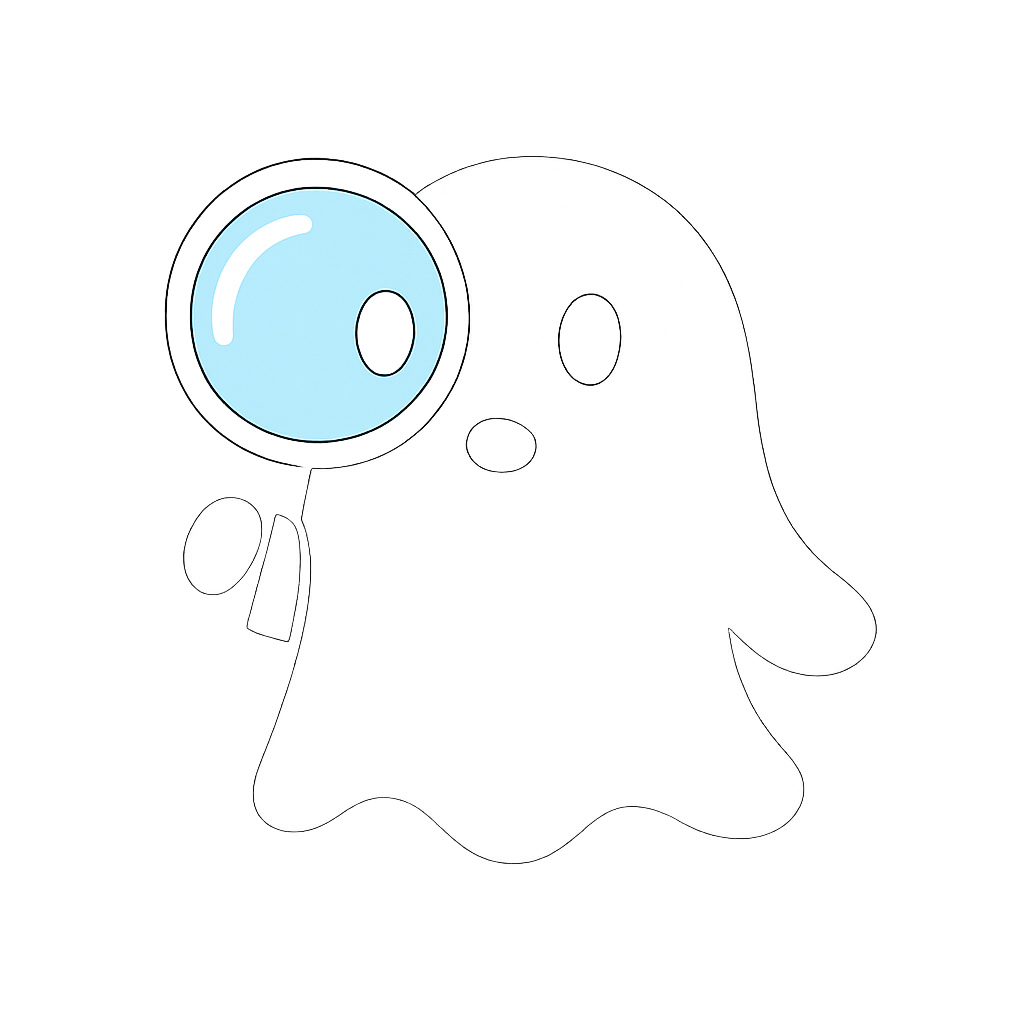
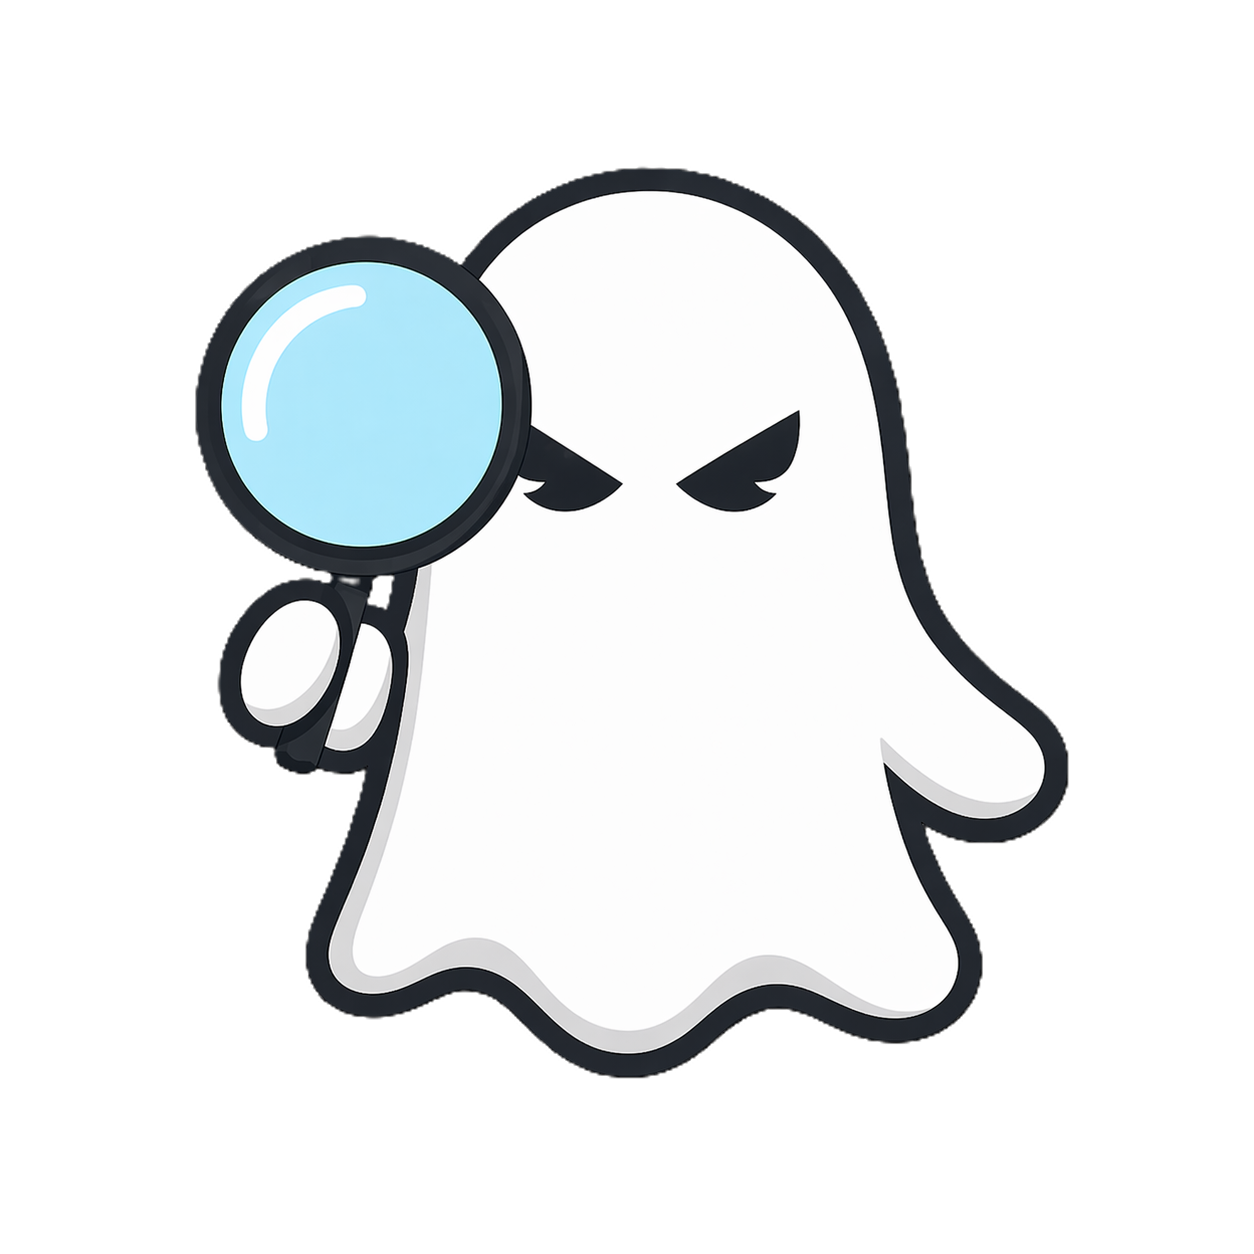
UI + backend: Post-Incident Review title trims (DNS Tunneling; Archived Data Exfiltration); MTTR YAxis responsive width+fontSize below sm (no clip on 1m 30s); ghost-searching -> inline magnifying-glass SVG on all 3 no-match empty states (logs, reports, alerts); ghost asset refresh (celebrate, search

Changed region(s): [[0.1562, 0.125, 0.875, 0.875], [0.5312, 0.3125, 0.6562, 0.4062]]

diff --git a/frontend/src/components/PerformanceGrade.jsx b/frontend/src/components/PerformanceGrade.jsx
@@ -1,4 +1,4 @@
-import React, { useState } from "react";
+import React, { useState, useEffect } from "react";
 import {
   PieChart,
   Pie,
@@ -57,6 +57,14 @@ const GRADE_MESSAGES = {
 
 const PerformanceGrade = ({ report }) => {
   const [resultsView, setResultsView] = useState('grade');
+  const [isSmUp, setIsSmUp] = useState(() => typeof window !== 'undefined' && window.matchMedia('(min-width: 640px)').matches);
+
+  useEffect(() => {
+    const mql = window.matchMedia('(min-width: 640px)');
+    const onChange = (e) => setIsSmUp(e.matches);
+    mql.addEventListener('change', onChange);
+    return () => mql.removeEventListener('change', onChange);
+  }, []);
 
   const hasData = report && report.total_actions > 0;
   const correct = hasData ? (report.threats_caught + report.fp_identified) : 0;
@@ -171,7 +179,7 @@ const PerformanceGrade = ({ report }) => {
               <LineChart data={mttrData} margin={{ top: 10, right: 20, left: 0, bottom: 0 }}>
                 <CartesianGrid strokeDasharray="3 3" stroke="#30363d" />
                 <XAxis dataKey="index" stroke="#9ca3af" tick={{ fill: '#9ca3af', fontSize: 14 }} tickFormatter={(v) => v === 0 ? '' : v} />
-                <YAxis stroke="#9ca3af" tick={{ fill: '#9ca3af', fontSize: 14 }} tickFormatter={(v) => formatDuration(v)} width={68} />
+                <YAxis stroke="#9ca3af" tick={{ fill: '#9ca3af', fontSize: isSmUp ? 14 : 12 }} tickFormatter={(v) => formatDuration(v)} width={isSmUp ? 64 : 68} />
                 <Tooltip content={<MttrTooltip />} wrapperStyle={{ zIndex: 20, outline: 'none', border: 'none' }} />
                 {avgMttr > 0 && (
                   <ReferenceLine y={avgMttr} stroke="#5882b4" strokeDasharray="4 4" />

diff --git a/frontend/src/components/GroupedAlerts.jsx b/frontend/src/components/GroupedAlerts.jsx
@@ -523,7 +523,15 @@ const GroupedAlerts = ({ resetTrigger, onHardcoreFailure, onReset, isVisible, se
 
               if (noResults) return (
                 <div className="flex flex-col items-center justify-center py-12">
-                  <img src="/ghost-searching.png" alt="Ghost Searching" className="w-20 h-20 sm:w-28 sm:h-28 opacity-90 mb-3" />
+                  <svg
+                    className="w-12 h-12 sm:w-16 sm:h-16 text-gray-500 mb-3"
+                    fill="none"
+                    stroke="currentColor"
+                    viewBox="0 0 24 24"
+                    aria-hidden="true"
+                  >
+                    <path strokeLinecap="round" strokeLinejoin="round" strokeWidth={1.5} d="M21 21l-5.197-5.197m0 0A7.5 7.5 0 105.196 5.196a7.5 7.5 0 0010.607 10.607z" />
+                  </svg>
                   <p className="font-mono text-xs sm:text-sm text-gray-400 text-center sm:text-left">&gt;<span className="animate-blink">|</span> {searchTerm ? `No matching alerts for "${searchTerm}"` : 'No alerts match the current filter'}</p>
                 </div>
               );

diff --git a/frontend/src/components/Reports.jsx b/frontend/src/components/Reports.jsx
@@ -341,7 +341,15 @@ const Reports = ({ setReportCount, reportCount, analystName, resetTrigger }) => 
         </div>
       ) : filteredReports.length === 0 && searchTerm ? (
         <div className="flex flex-col items-center justify-center py-12">
-          <img src="/ghost-searching.png" alt="Ghost Searching" className="w-20 h-20 sm:w-28 sm:h-28 opacity-90 mb-3" />
+          <svg
+            className="w-12 h-12 sm:w-16 sm:h-16 text-gray-500 mb-3"
+            fill="none"
+            stroke="currentColor"
+            viewBox="0 0 24 24"
+            aria-hidden="true"
+          >
+            <path strokeLinecap="round" strokeLinejoin="round" strokeWidth={1.5} d="M21 21l-5.197-5.197m0 0A7.5 7.5 0 105.196 5.196a7.5 7.5 0 0010.607 10.607z" />
+          </svg>
           <p className="font-mono text-xs sm:text-sm text-gray-400 text-center sm:text-left">&gt;<span className="animate-blink">|</span> No matching reports for "{searchTerm}"</p>
         </div>
       ) : (

diff --git a/frontend/src/components/AlertTable.jsx b/frontend/src/components/AlertTable.jsx
@@ -322,7 +322,15 @@ const AlertTable = ({ setAlertCount, resetTrigger }) => {
         </div>
       ) : noSearchResults ? (
         <div className="flex flex-col items-center justify-center py-12">
-          <img src="/ghost-searching.png" alt="Ghost Searching" className="w-20 h-20 sm:w-28 sm:h-28 opacity-90 mb-3" />
+          <svg
+            className="w-12 h-12 sm:w-16 sm:h-16 text-gray-500 mb-3"
+            fill="none"
+            stroke="currentColor"
+            viewBox="0 0 24 24"
+            aria-hidden="true"
+          >
+            <path strokeLinecap="round" strokeLinejoin="round" strokeWidth={1.5} d="M21 21l-5.197-5.197m0 0A7.5 7.5 0 105.196 5.196a7.5 7.5 0 0010.607 10.607z" />
+          </svg>
           <p className="font-mono text-xs sm:text-sm text-gray-400 text-center sm:text-left">&gt;<span className="animate-blink">|</span> No matching logs for "{searchTerm}"</p>
         </div>
       ) : (

diff --git a/backend/app.py b/backend/app.py
@@ -367,7 +367,7 @@ TRIAGE_REVIEWS = {
             "url": "https://attack.mitre.org/techniques/T1560/001/"
         },
         "what_is_it": {
-            "title": "Data Archiving and Exfiltration to Cloud Storage",
+            "title": "Archived Data Exfiltration",
             "description": "Data exfiltration is when stolen files are transferred out of the network. Attackers often compress and password-protect data using tools like 7-Zip before uploading it to cloud storage services like Mega.nz. The password protection prevents DLP tools from inspecting the contents, and services with anonymous accounts make the destination harder to trace."
         },
         "response_actions": [
@@ -484,7 +484,7 @@ TRIAGE_REVIEWS = {
             "url": "https://attack.mitre.org/techniques/T1071/004/"
         },
         "what_is_it": {
-            "title": "DNS Tunneling: Covert C2 Channel",
+            "title": "DNS Tunneling",
             "description": "DNS tunneling is when malware hides command and control communication inside DNS queries by encoding data into long subdomain labels that route through normal DNS infrastructure to an attacker-controlled server. Because DNS traffic is rarely blocked or inspected, the channel operates over port 53 without triggering most security tools."
         },
         "response_actions": [
